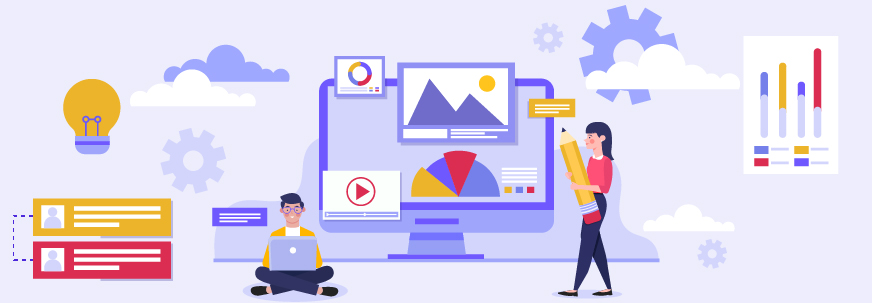
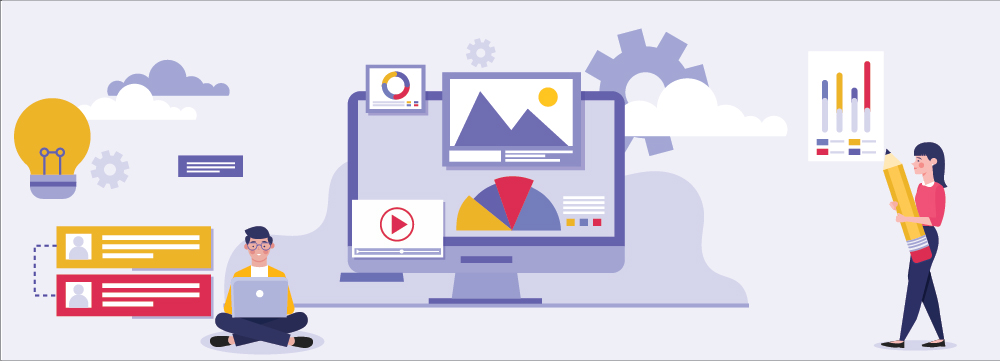
images

diff --git a/src/app/components/blog/blog.component.html b/src/app/components/blog/blog.component.html
@@ -39,7 +39,7 @@
                 <div class="news-block-one wow animate__fadeInUp animate__animated" data-wow-delay="00ms" data-wow-duration="1500ms">
                     <div class="inner-box">
                         <figure class="image-box">
-                            <img src="/images/blog1.png" alt="">
+                            <img src="/images/blognew1.jpg" alt="">
                             <div class="overlay-box">
                                 <a  class="link-btn"><i class="fa-solid fa-link"></i></a>
                             </div>
@@ -64,7 +64,7 @@
                 <div class="news-block-one wow animate__fadeInUp animate__animated" data-wow-delay="00ms" data-wow-duration="1500ms">
                     <div class="inner-box">
                         <figure class="image-box">
-                            <img src="/images/blog2.png" alt="">
+                            <img src="/images/blognew2.jpg" alt="">
                             <div class="overlay-box">
                                 <a class="link-btn"><i class="fa-solid fa-link"></i></a>
                             </div>
@@ -89,7 +89,7 @@
                 <div class="news-block-one wow animate__fadeInUp animate__animated" data-wow-delay="00ms" data-wow-duration="1500ms">
                     <div class="inner-box">
                         <figure class="image-box">
-                            <img src="/images/blog3.png" alt="">
+                            <img src="/images/blognew3.jpg" alt="">
                             <div class="overlay-box">
                                 <a  class="link-btn"><i class="fa-solid fa-link"></i></a>
                             </div>
@@ -114,7 +114,7 @@
                 <div class="news-block-one wow animate__fadeInUp animate__animated" data-wow-delay="00ms" data-wow-duration="1500ms">
                     <div class="inner-box">
                         <figure class="image-box">
-                            <img src="/images/blog4.png" alt="">
+                            <img src="/images/blognew4.jpg" alt="">
                             <div class="overlay-box">
                                 <a class="link-btn"><i class="fa-solid fa-link"></i></a>
                             </div>
@@ -139,7 +139,7 @@
                 <div class="news-block-one wow animate__fadeInUp animate__animated" data-wow-delay="00ms" data-wow-duration="1500ms">
                     <div class="inner-box">
                         <figure class="image-box">
-                            <img src="/images/blog5.png" alt="">
+                            <img src="/images/blognew5.jpg" alt="">
                             <div class="overlay-box">
                                 <a  class="link-btn"><i class="fa-solid fa-link"></i></a>
                             </div>
@@ -164,7 +164,7 @@
                 <div class="news-block-one wow animate__fadeInUp animate__animated" data-wow-delay="00ms" data-wow-duration="1500ms">
                     <div class="inner-box">
                         <figure class="image-box">
-                            <img src="/images/blog6.png" alt="">
+                            <img src="/images/blognew6.jpg" alt="">
                             <div class="overlay-box">
                                 <a class="link-btn"><i class="fa-solid fa-link"></i></a>
                             </div>
@@ -189,7 +189,7 @@
                 <div class="news-block-one wow animate__fadeInUp animate__animated" data-wow-delay="00ms" data-wow-duration="1500ms">
                     <div class="inner-box">
                         <figure class="image-box">
-                            <img src="/images/blog7.png" alt="">
+                            <img src="/images/blognew7.jpg" alt="">
                             <div class="overlay-box">
                                 <a  class="link-btn"><i class="fa-solid fa-link"></i></a>
                             </div>
@@ -214,7 +214,7 @@
                 <div class="news-block-one wow animate__fadeInUp animate__animated" data-wow-delay="00ms" data-wow-duration="1500ms">
                     <div class="inner-box">
                         <figure class="image-box">
-                            <img src="/images/blog8.png" alt="">
+                            <img src="/images/blognew8.jpg" alt="">
                             <div class="overlay-box">
                                 <a href="blog-details.html" class="link-btn"><i class="fa-solid fa-link"></i></a>
                             </div>
@@ -239,7 +239,7 @@
                 <div class="news-block-one wow animate__fadeInUp animate__animated" data-wow-delay="00ms" data-wow-duration="1500ms">
                     <div class="inner-box">
                         <figure class="image-box">
-                            <img src="/images/blog9.png" alt="">
+                            <img src="/images/blognew9.jpg" alt="">
                             <div class="overlay-box">
                                 <a  class="link-btn"><i class="fa-solid fa-link"></i></a>
                             </div>

diff --git a/src/app/components/home/home.component.html b/src/app/components/home/home.component.html
@@ -484,7 +484,7 @@
                 <div class="news-block-one wow animate__fadeInUp animate__animated" data-wow-delay="00ms" data-wow-duration="1500ms" routerLink="/SEO_Mistakes_to_Avoid_Common_Pitfalls_and_How_to_Fix_Them">
                     <div class="inner-box">
                         <figure class="image-box">
-                            <img src="/images/blog1.png" alt="">
+                            <img src="/images/blognew1.jpg" alt="">
                             <div class="overlay-box">
                                 <a  class="link-btn"><i class="fa-solid fa-link"></i></a>
                             </div>
@@ -509,7 +509,7 @@
                 <div class="news-block-one wow animate__fadeInUp animate__animated" data-wow-delay="300ms" data-wow-duration="1500ms"   routerLink="/Content_Marketing_Ethics_Balancing_Authenticity_and_Persuasion">
                     <div class="inner-box">
                         <figure class="image-box">
-                            <img src="/images/blog3.png" alt="">
+                            <img src="/images/blognew3.jpg" alt="">
                             <div class="overlay-box">
                                 <a  class="link-btn"><i class="fa-solid fa-link"></i></a>
                             </div>
@@ -534,7 +534,7 @@
                 <div class="news-block-one wow animate__fadeInUp animate__animated" data-wow-delay="600ms" data-wow-duration="1500ms"  routerLink="/Security_and_Fraud_Prevention_in_Direct_Carrier_Billing_How_Safe_Are_We">
                     <div class="inner-box">
                         <figure class="image-box">
-                            <img src="/images/blog2.png" alt="">
+                            <img src="/images/blognew2.jpg" alt="">
                             <div class="overlay-box">
                                 <a  class="link-btn"><i class="fa-solid fa-link"></i></a>
                             </div>

diff --git a/src/app/components/blog-1/blog-1.component.html b/src/app/components/blog-1/blog-1.component.html
@@ -29,7 +29,7 @@
                 <div class="blog-details-content">
                     <h2>SEO Mistakes to Avoid: Common Pitfalls and How to Fix Them</h2>
                     <figure class="image-box">
-                        <img src="/images/SEO_Mistakes_to_Avoid_Common _Pitfalls_and_How_to _Fix_Them.jpg" alt="">
+                        <img src="/images/blogdetail1.jpg" alt="">
                         <!-- <a href="blog-details.html">SEO Marketing</a> -->
                     </figure>
                     <div class="inner-box">
